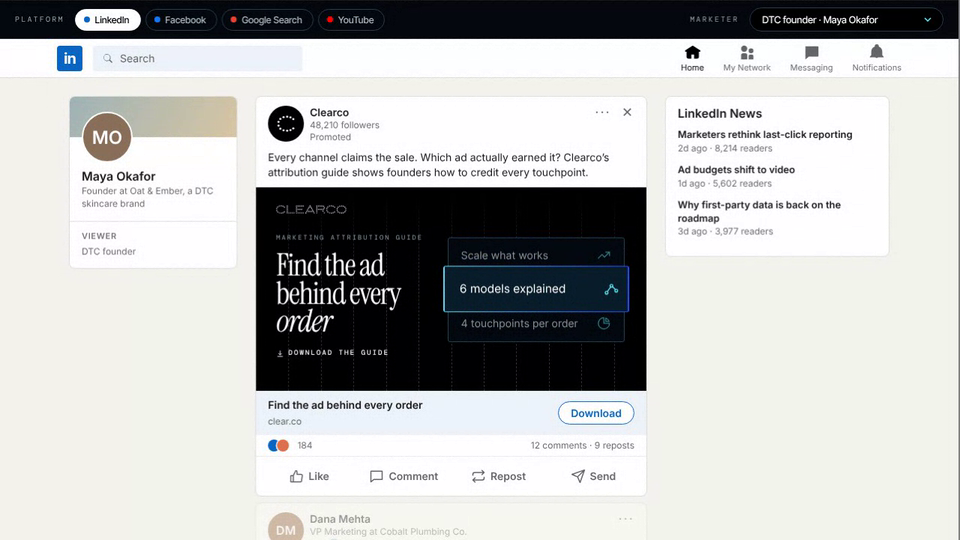
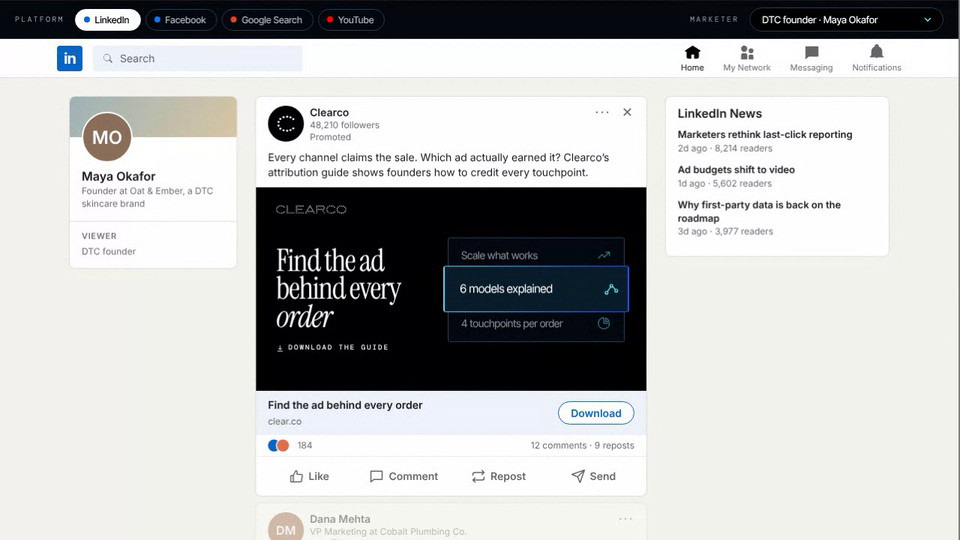
Paid Ad Pipeline: cleaner LinkedIn ad, card text 1px tighter (#782)
* Paid Ad Pipeline: keep the rolodex back cards on one static panel

Only the back cards' text rolls now; their frames no longer slide and overlap.

Claude-Session: https://claude.ai/code/session_016rpguaETsCiVqR7f54g7FW

* Paid Ad Pipeline: rolodex back-card text fades in place instead of sliding

Claude-Session: https://claude.ai/code/session_016rpguaETsCiVqR7f54g7FW

* Paid Ad Pipeline: make the rolodex back cards slightly smaller

Claude-Session: https://claude.ai/code/session_016rpguaETsCiVqR7f54g7FW

* Paid Ad Pipeline: keep the rolodex front card a fixed size and place

The highlighted frame is now static; text in every slot crossfades.

Claude-Session: https://claude.ai/code/session_016rpguaETsCiVqR7f54g7FW

* Paid Ad Pipeline: rolodex text drifts up slightly as it fades out and in

Claude-Session: https://claude.ai/code/session_016rpguaETsCiVqR7f54g7FW

* Paid Ad Pipeline: a bit more upward slide on the rolodex text fades

Claude-Session: https://claude.ai/code/session_016rpguaETsCiVqR7f54g7FW

* Paid Ad Pipeline: drop the circle around the rolodex icons in the LinkedIn ad

Claude-Session: https://claude.ai/code/session_016rpguaETsCiVqR7f54g7FW

* Paid Ad Pipeline: gapless rolodex crossfade, bigger icons, sans card text

Claude-Session: https://claude.ai/code/session_016rpguaETsCiVqR7f54g7FW

* Paid Ad Pipeline: re-record clip from a clean first frame

Claude-Session: https://claude.ai/code/session_016rpguaETsCiVqR7f54g7FW
[…]

Changed region(s): [[0.2812, 0.4148, 0.4375, 0.6815], [0.4688, 0.4444, 0.5938, 0.563], [0.4688, 0.5926, 0.5938, 0.6222]]

diff --git a/clearco-paid-ad-pipeline/index.html b/clearco-paid-ad-pipeline/index.html
@@ -49,8 +49,6 @@ nav.back span{color:#6e6e6e}nav.back b{font-weight:500;color:#fff;overflow:hidde
 
 /* ---------- the creative: one element, moved into whichever platform is showing ---------- */
 .cr{display:block;position:relative;aspect-ratio:1.91;background:#000;overflow:hidden;container-type:inline-size;color:#fff;text-decoration:none;cursor:pointer;font-family:var(--sans)}
-.cr .dl{position:absolute;inset:0;pointer-events:none;-webkit-mask-image:linear-gradient(transparent,#000 40%);mask-image:linear-gradient(transparent,#000 40%)}
-.cr .dl i{position:absolute;top:0;bottom:0;border-left:1px dashed rgba(255,255,255,.2)}
 .cr .lg{position:absolute;left:5.2cqw;top:4.6cqw;width:18cqw;aspect-ratio:978.8/116.8;height:auto;fill:#fff}
 .cr .l{position:absolute;left:5.2cqw;top:0;bottom:0;width:47cqw;display:flex;flex-direction:column;justify-content:center;padding-top:3cqw}
 .cr .chip{font:400 1.7cqw/1.5 var(--mono);letter-spacing:.22em;text-transform:uppercase;color:#8fa0ad;white-space:nowrap}
@@ -97,7 +95,7 @@ nav.back span{color:#6e6e6e}nav.back b{font-weight:500;color:#fff;overflow:hidde
 .cr .bl.snap[data-p="0"]>div,.cr .bl.snap[data-p="0"] .ic{transform:translateY(-5cqw)}
 .cr .bl.snap[data-p="1"]>div,.cr .bl.snap[data-p="1"] .ic{transform:translateY(5cqw)}
 .cr .bl.snap[data-p="2"]>div,.cr .bl.snap[data-p="2"] .ic{transform:translateY(15cqw)}
-.cr .bl strong{display:block;font:400 6cqw/1.1 var(--sans);letter-spacing:.044em}
+.cr .bl strong{display:block;font:400 6cqw/1.1 var(--sans);letter-spacing:-.02em}
 .cr .bl strong i{font-style:normal}
 .cr .bl[data-p="1"],.cr .bl[data-p="m"]{padding-left:8.5cqw}
 .cr .bl strong i{color:#fff}
@@ -453,9 +451,8 @@ tfoot td{font-weight:500;color:#fff;border-top:1px solid #3a4c60}
   <span class="go2"><svg viewBox="0 0 16 16" fill="none" stroke="currentColor" stroke-width="1.1" aria-hidden="true"><path d="M8 2v9M4.5 7.5 8 11l3.5-3.5M2.5 14h11"/></svg><span>Learn more from<br>the attribution guide</span></span>
  </a>
  <a class="cr" id="cr" href="#" aria-label="Marketing attribution guide from Clearco. Opens the guide">
-  <div class="dl" aria-hidden="true"></div>
   <svg class="lg" role="img" aria-label="Clearco"><use href="#clearco"/></svg>
-  <div class="l"><div class="chip">Marketing attribution guide</div>
+  <div class="l">
    <h4><span class="sw" id="crH"></span></h4>
    <span class="go"><svg viewBox="0 0 16 16" fill="none" stroke="currentColor" stroke-width="1.4" aria-hidden="true"><path d="M8 2v9M4.5 7.5 8 11l3.5-3.5M2.5 14h11"/></svg>Download the guide</span></div>
   <div class="stage" aria-hidden="true">
@@ -562,7 +559,7 @@ const state={s:1,m:0,p:0,metric:'clicks',model:3}; // m: marketer (-1 = all, per
 
 function tile(n,fn){const c=document.createElement('canvas');c.width=c.height=n;const g=c.getContext('2d'),d=g.createImageData(n,n);for(let i=0;i<n*n;i++)fn(d.data,i*4,Math.random());g.putImageData(d,0,0);return c}
 document.documentElement.style.setProperty('--grain','url('+tile(128,(p,i,v)=>{const w=v>.5;p[i]=p[i+1]=p[i+2]=w?255:0;p[i+3]=Math.round(Math.abs(v-.5)*2*120)}).toDataURL()+')');
-$('cr').querySelector('.dl').innerHTML=[...Array(11)].map((_,i)=>`<i style="left:${(i+1)*100/12}%"></i>`).join('');
+
 
 /* ---------- controls ---------- */
 $('plat').insertAdjacentHTML('beforeend',P.map((p,i)=>`<button type="button" data-p="${i}" style="--c:${p.c}"><i></i>${p.n}</button>`).join(''));
